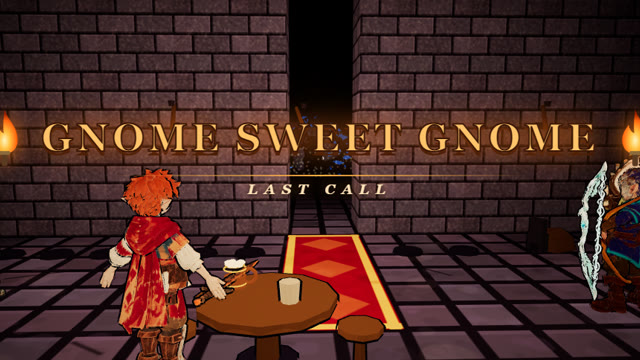
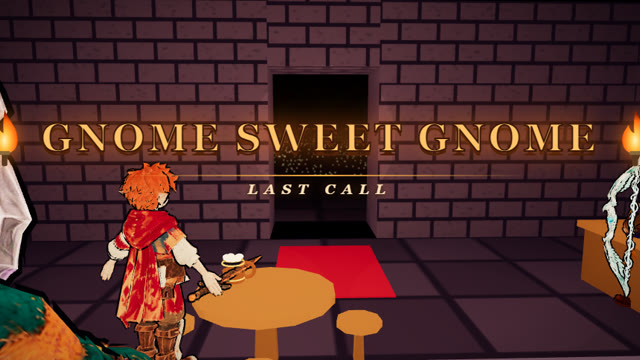
Build 549: the prologue plays on a save's first PLAY (then the game starts); Gnome Sweet Gnome plays on entering the Throne Room, in its own tavern set

diff --git a/parts/staging/96s5-tavernscene.js b/parts/staging/96s5-tavernscene.js
@@ -19,7 +19,39 @@ window.__tavernscene={ info:()=>null };
 if(!window.CINE) return;
 const ID='tavern', DUR=35, PRE='prologue';
 const SH={ mug:0, peek:6.5, arms:11.5, door:19.5, last:26, title:31 };
-const HALL=typeof MAP!=='undefined'&&MAP&&MAP.id==='hall'&&!MAP.noTavern;
+// build 549 (Matt: "gnome sweet gnome upon entering the thrown room"): it plays the first time the THRONE ROOM's build phase begins. The Throne Room has no tavern room (its south wall was
+// closed, MAP.noTavern), so the scene brings its own: a tavern SET built for it out past the map's east edge (buildSet: brick walls, a tiled floor, the bar and its bottles, the hearth, the round
+// table and stools, a locker, a rug, two barrels, the barkeep, and the doorway north onto a dark hall) -- the Gnome Hall's room (65-tavernroom.js) again, every piece the scene's own, gone after.
+const HALL=typeof MAP!=='undefined'&&MAP&&MAP.id==='throne';
+const SX=320, SZ=0;   // where the set stands: well outside any map, beyond the fog
+function canvasTex(w,h,draw){ const c=document.createElement('canvas'); c.width=w; c.height=h; draw(c.getContext('2d'),w,h); const t=new THREE.CanvasTexture(c); t.wrapS=t.wrapT=THREE.RepeatWrapping; t.encoding=THREE.sRGBEncoding; return t; }
+let setFlames=null, setNpc=null;
+function buildSet(group){ const g=new THREE.Group(); g.position.set(SX,0,SZ); group.add(g); const mk=(geo,m,x,y,z)=>{ const o=own(new THREE.Mesh(geo,m)); o.position.set(x,y,z); g.add(o); return o; };
+  const tm=(col,map,em)=>{ const m=new THREE.MeshToonMaterial({ color:C(col), map:map||null }); m.emissive=map?C(0x2a1c30):C(col); m.emissiveIntensity=em===undefined?.06:em; OWN.push(m); return m; };   /* a faint floor of colour so nothing goes pitch black; the firelight does the rest */
+  const brick=canvasTex(256,256,(x,w,h)=>{ x.fillStyle='#4f4258'; x.fillRect(0,0,w,h); x.strokeStyle='#1c1522'; x.lineWidth=6; for(let r=0;r<8;r++){ const y=r*32; x.beginPath(); x.moveTo(0,y); x.lineTo(w,y); x.stroke(); for(let c=0;c<5;c++){ const bx=c*64+(r%2?32:0); x.beginPath(); x.moveTo(bx,y); x.lineTo(bx,y+32); x.stroke(); } } for(let i=0;i<400;i++){ x.fillStyle='rgba(0,0,0,'+(Math.random()*.12)+')'; x.fillRect(Math.random()*w,Math.random()*h,6,4); } });
+  const tiles=canvasTex(128,128,(x,w,h)=>{ x.fillStyle='#352c40'; x.fillRect(0,0,w,h); x.fillStyle='#2a2233'; x.fillRect(0,0,64,64); x.fillRect(64,64,64,64); x.strokeStyle='#17121e'; x.lineWidth=5; x.strokeRect(0,0,64,64); x.strokeRect(64,0,64,64); x.strokeRect(0,64,64,64); x.strokeRect(64,64,64,64); });
+  OWN.push(brick,tiles);
+  const texM=(tex,ru,rv,em)=>{ const t=tex.clone(); t.repeat.set(ru,rv); t.needsUpdate=true; OWN.push(t); return tm(0xffffff,t,em); };
+  const wood=tm(0x6b4a2a), plank=tm(0x8a5e34), dark=tm(0x2b2540), stone=tm(0x4a4262), cream=tm(0xf1e6d0), gold=tm(0xe0b040);
+  const fl=mk(new THREE.PlaneGeometry(16,12),texM(tiles,4,3,.5),0,0,0); fl.rotation.x=-PI/2;
+  const hf=mk(new THREE.PlaneGeometry(12,34),texM(tiles,3,8.5,.2),0,0,-25); hf.rotation.x=-PI/2;
+  const wall=(w,h,d,x,y,z,ru,rv)=>mk(new THREE.BoxGeometry(w,h,d),texM(brick,ru,rv,.5),x,y,z);
+  wall(16,6,.6,0,3,6.3,4,1.5); wall(.6,6,12,8.3,3,0,3,1.5); wall(.6,6,12,-8.3,3,0,3,1.5);   // south, east, west
+  wall(6.6,6,2,-4.7,3,-7,1.7,1.5); wall(6.6,6,2,4.7,3,-7,1.7,1.5); wall(2.8,1.6,2,0,5.2,-7,.7,.4);   // the north wall either side of the door, its lintel
+  wall(.6,5,34,-6,2.5,-25,8.5,1.2); wall(.6,5,34,6,2.5,-25,8.5,1.2);   // the dark hall's sides, past the door
+  // the bar along the east wall: counter, mugs, a shelf of bottles behind
+  { const bx=6.6; mk(new THREE.BoxGeometry(1,1.05,5.6),wood,bx-1.2,.52,0); mk(new THREE.BoxGeometry(1.2,.12,5.8),plank,bx-1.2,1.1,0); for(const mz of [-2,-.6,1.1,2.2]) mk(new THREE.CylinderGeometry(.13,.11,.26,8),cream,bx-1.3,1.29,mz);
+    mk(new THREE.BoxGeometry(.3,.08,5.4),plank,bx+.9,2.3,0); mk(new THREE.BoxGeometry(.3,.08,5.4),plank,bx+.9,3.1,0); const cols=[0x6a9a3a,0xc8262b,0x2fb8e8,0xe0b040,0x9a5ab8,0xf1e6d0]; for(let k=0;k<11;k++) mk(new THREE.CylinderGeometry(.09,.11,.42,7),tm(cols[k%cols.length]),bx+.9,(k%2?2.55:3.35),-2.4+k*.48); }
+  // the hearth on the south wall, logs and a fire
+  { mk(new THREE.BoxGeometry(3,2.6,.9),stone,0,1.3,5.6); mk(new THREE.BoxGeometry(3.3,.25,1.1),tm(0x5a5276),0,2.7,5.6); mk(new THREE.BoxGeometry(1.6,1.4,.6),tm(0x1a1420,null,0),0,.75,5.3); for(const x of [-.5,.4]){ const lg=mk(new THREE.CylinderGeometry(.09,.09,.8,6),wood,x,.2,5.25); lg.rotation.z=PI/2; }
+    const f1=glow(0xff6a14,1.5,.95), f2=glow(0xffd060,.8,.95); f1.position.set(0,.62,4.86); f2.position.set(0,.46,4.8); g.add(f1); g.add(f2); OWN.push(f1.material,f2.material); setFlames=[f1,f2]; }   /* glowing flames, not cones */
+  // the round table and four stools
+  { mk(new THREE.CylinderGeometry(.9,.9,.1,14),plank,-1,.9,0); mk(new THREE.CylinderGeometry(.12,.16,.9,7),wood,-1,.45,0); for(const [x,z] of [[1.2,0],[-1.2,0],[0,1.2],[0,-1.2]]){ mk(new THREE.CylinderGeometry(.3,.3,.08,9),plank,-1+x,.5,z); mk(new THREE.CylinderGeometry(.06,.08,.5,6),wood,-1+x,.25,z); } }
+  // the locker on the west wall, a rug by the door, two barrels
+  { mk(new THREE.BoxGeometry(.7,2.3,1.4),dark,-7.6,1.15,-3); mk(new THREE.BoxGeometry(.74,.08,1.44),gold,-7.6,2.3,-3); mk(new THREE.BoxGeometry(2.2,.03,3.2),tm(0x8a2030),0,.02,-3.6); for(const [x,z] of [[-7.2,4.8],[-6.2,5.2]]) mk(new THREE.CylinderGeometry(.42,.42,1.1,10),wood,x,.55,z); }
+  // the barkeep behind the bar
+  try{ const n=makeHero(); n.g.position.set(SX+7.5,0,SZ+.6); n.g.rotation.y=-PI/2; n.g.scale.setScalar(.95); group.add(n.g); setNpc=n.g; }catch(e){}
+  return g; }
 const cnt={ setups:0, teardowns:0, thumps:0, eyes:0, heroes:0, weapons:0, music:0, quick:0 };
 const ssm=k=>k<=0?0:k>=1?1:k*k*(3-2*k), L3=(a,b,k)=>[a[0]+(b[0]-a[0])*k,a[1]+(b[1]-a[1])*k,a[2]+(b[2]-a[2])*k];
 const TD=(typeof MAP!=='undefined'&&MAP&&MAP.tavern)||{ dx:0, dz:0 }; const at=(x,z)=>[cw(x+TD.dx),cwz(z+TD.dz)];
@@ -53,8 +85,7 @@ let heroes=[], gob=null, mug=null, rings=[], eyePts=null, eyeMat=null, pinkG=nul
 const SRC=[0,1,2,3,4,5].map(()=>({ x:0, y:-80, z:0, on:false, ph:0, k:1 }));
 function setup(ctx){ if(!HALL) return false; const C2=window.__prologue&&window.__prologue.crew; if(!C2) return false; cnt.setups++; prng=9151; tuneSrc=null; heroes=[]; rings=[]; nThump=0; lastThump=-9; thumpT=1.1;
   // the room's spots (65-tavernroom.js)
-  const [tbx,tbz]=at(15,28), [dox,doz]=at(16,24), [hx,hz]=at(16,31), [bx,bz]=at(19,28), [lx,lz]=at(12,26);
-  R={ table:[tbx+1,tbz], door:[dox,doz], hearth:[hx,hz], bar:[bx,bz], locker:[lx,lz] }; const fy=baseFloor(tbx+1,tbz);  R.fy=fy;
+  buildSet(ctx.group); R={ table:[SX-1,SZ], door:[SX,SZ-6.6], hearth:[SX,SZ+5.4], bar:[SX+6.4,SZ], locker:[SX-7.2,SZ-3] }; const fy=0; R.fy=fy;
   // the mug: on the near edge of the table, foam on top, ale under it, rings that spread on each thud
   mug=new THREE.Group(); mug.position.set(R.table[0]-.45,fy+.95,R.table[1]-.35); ctx.group.add(mug);
   const cream=new THREE.MeshToonMaterial({ color:C(0x7a4a26) }), brass=new THREE.MeshToonMaterial({ color:C(0xd8a84a) }), ale=new THREE.MeshBasicMaterial({ color:C(0xd99a30) }), foam=new THREE.MeshToonMaterial({ color:C(0xfff6e2) }); OWN.push(cream,brass,ale,foam);   /* a wooden tankard, brass bands */
@@ -64,20 +95,20 @@ function setup(ctx){ if(!HALL) return false; const C2=window.__prologue&&window.
   for(let i=0;i<3;i++){ const m=new THREE.MeshBasicMaterial({ color:C(0xffe6a8), transparent:true, opacity:0, depthWrite:false }); OWN.push(m); const rg=own(new THREE.Mesh(new THREE.RingGeometry(.8,1,24),m)); rg.rotation.x=-PI/2; rg.position.y=.29; rg.scale.setScalar(.01); mug.add(rg); rings.push({ rg, m, t:9 }); }
   // the four (the prologue's models), set where each one stands in the tavern
   const P=window.__party&&window.__party.model; const spots={ knight:[R.table[0]-1.25,R.table[1]+.2,PI*.5], witch:[R.hearth[0]-1.4,R.hearth[1]-1.6,PI*.9], fighter:[R.locker[0]+1.6,R.locker[1]+1.2,PI*.65], troll:[R.bar[0]-1.15,R.bar[1]-1.6,-PI*.6] };
-  for(const h of C2.CREW){ const m=C2.MODEL[h.id]; if(!m) continue; const sp=spots[h.id]; m.wrap.position.set(sp[0],baseFloor(sp[0],sp[1]),sp[1]); m.wrap.rotation.y=sp[2]; m.wrap.visible=true; ctx.group.add(m.wrap);
+  for(const h of C2.CREW){ const m=C2.MODEL[h.id]; if(!m) continue; const sp=spots[h.id]; m.wrap.position.set(sp[0],0,sp[1]); m.wrap.rotation.y=sp[2]; m.wrap.visible=true; ctx.group.add(m.wrap);
     if(P&&m.actions.idle) P.play(m,'idle',{fade:0,restart:true}); const mt=P&&P.mount(m.root); if(mt&&window.__weapons&&window.__weapons.attach) window.__weapons.attach(mt,h.w,5,null,obj=>{ m.wobj=obj; try{ m.wglow=window.__heldglow&&window.__heldglow.dress?window.__heldglow.dress(obj):null; }catch(e){} cnt.weapons++; });
     heroes.push({ h, m, yaw0:sp[2], ht:2.3 }); }   /* a puppet hero stands about 2.3 here, head to toe (a skinned rig's box reads short) */
   cnt.heroes=heroes.length;
   // the goblin at the door (outside, just round the frame)
   try{ gob=makeMob('goblin'); }catch(e){ gob=null; } if(gob){ gob.g.visible=false; ctx.group.add(gob.g); const id=gob.actions&&(gob.actions.idle||gob.actions.walk); if(id){ id.reset(); id.play(); } }
   // eyes out in the hall: hundreds, in pairs, in the dark north of the door
-  { const N=260, pos=new Float32Array(N*2*3), col=new Float32Array(N*2*3); for(let i=0;i<N;i++){ const z=R.door[1]-3-rand()*26, x=R.door[0]+(rand()-.5)*(2.4+(R.door[1]-z)*.55), y=baseFloor(x,z)+.9+rand()*1.1, sep=.09+rand()*.05, warm=rand()<.75;
+  { const N=260, pos=new Float32Array(N*2*3), col=new Float32Array(N*2*3); for(let i=0;i<N;i++){ const z=R.door[1]-3-rand()*26, x=R.door[0]+(rand()-.5)*Math.min(10.5,2.4+(R.door[1]-z)*.55), y=.9+rand()*1.1, sep=.09+rand()*.05, warm=rand()<.75;
       for(let s=0;s<2;s++){ const j=(i*2+s)*3; pos[j]=x+(s?sep:-sep); pos[j+1]=y; pos[j+2]=z; const c=warm?[1,.82,.25]:[1,.3,.2]; col[j]=c[0]; col[j+1]=c[1]; col[j+2]=c[2]; } }
     const geo=new THREE.BufferGeometry(); geo.setAttribute('position',new THREE.BufferAttribute(pos,3)); geo.setAttribute('color',new THREE.BufferAttribute(col,3));
     eyeMat=new THREE.PointsMaterial({ size:.2, map:GLOWT, vertexColors:true, transparent:true, depthWrite:false, blending:THREE.AdditiveBlending, opacity:0 }); OWN.push(eyeMat); eyePts=own(new THREE.Points(geo,eyeMat)); ctx.group.add(eyePts); cnt.eyes=N*2; }
   pinkG=glow(0xff4fc8,9,0); pinkG.position.set(R.door[0]+4,R.fy+4,R.door[1]-24); ctx.group.add(pinkG); OWN.push(pinkG.material);
-  hearthF=glow(0xff8a2a,3.2,.8); hearthF.position.set(R.hearth[0],R.fy+.9,R.hearth[1]+.25); ctx.group.add(hearthF); OWN.push(hearthF.material);
-  ctx.darken({ hemi:.05, emissive:.08, fog:[16,60], flat:.5, keep:[] }); const F=ctx.fireLights(6); F.I=1.6; F.dist=11; F.col=0xffa860;
+  hearthF=glow(0xff8a2a,3.2,.8); hearthF.position.set(R.hearth[0],R.fy+.9,R.hearth[1]-.75); ctx.group.add(hearthF); OWN.push(hearthF.material);
+  ctx.darken({ hemi:.05, emissive:.08, fog:[16,60], flat:.5, keep:[] }); const F=ctx.fireLights(6); cnt.lights=F.slots.length; F.I=1.9; F.dist=11; F.col=0xffa860;
   return true; }
 function camFor(t){ const T=R.table, D=R.door, fy=R.fy;
   if(t<SH.peek){ const k=ssm(t/SH.peek), m=mug.position; return { p:[m.x-.62+.12*k,m.y+.78-.08*k,m.z-.5+.1*k], l:[m.x,m.y+.24,m.z], fov:42, name:'mug', f:{ x:m.x, y:m.y, z:m.z } }; }
@@ -103,7 +134,7 @@ function step(ctx,t,dt){ const U=ctx.audio, F=ctx.fire, P=window.__party&&window
   // the dark beyond the door
   eyeMat.opacity=t>=SH.door?ssm((t-SH.door-.4)/2.5)*(.9+.1*Math.sin(t*3)):0; ctx.once('pink',SH.door+3.6,()=>{ U.swell(.06); });
   pinkG.material.opacity=t>=SH.door+3.6?.75*Math.exp(-(t-SH.door-3.6)*2.2):0;
-  hearthF.material.opacity=.75+.15*Math.sin(t*9)+.08*Math.sin(t*23);
+  hearthF.material.opacity=.75+.15*Math.sin(t*9)+.08*Math.sin(t*23); if(setFlames){ setFlames[0].scale.set(1.5*(1+.1*Math.sin(t*11)),1.9*(1+.15*Math.sin(t*13)),1); setFlames[1].scale.set(.8,1.1*(1+.12*Math.sin(t*17+1)),1); }
   // light: the hearth, the table, the bar, the door
   if(F){ const pts=[[R.hearth[0],R.fy+1.2,R.hearth[1]-.3],[R.table[0],R.fy+2.4,R.table[1]],[R.bar[0]-.8,R.fy+2.4,R.bar[1]-1],[R.locker[0]+1.8,R.fy+2.4,R.locker[1]+1],[R.door[0],R.fy+2.6,R.door[1]+1.4]];
     pts.forEach((p,i)=>{ const o=SRC[i]; o.x=p[0]; o.y=p[1]; o.z=p[2]; o.on=true; o.ph=i*1.7; o.k=i===0?1.25:.8; }); SRC[5].on=false; F.update(SRC,c0||{ x:R.table[0], y:R.fy+1, z:R.table[1] },dt,t); }
@@ -118,9 +149,9 @@ function teardown(ctx){ cnt.teardowns++; if(tuneSrc&&lastT>=DUR-.8){ tuneOn=true
   for(const H of heroes){ try{ H.m.mixer.stopAllAction(); }catch(e){} if(H.m.wobj&&H.m.wobj.parent) H.m.wobj.parent.remove(H.m.wobj); if(H.m.wrap.parent) H.m.wrap.parent.remove(H.m.wrap); H.m.wrap.rotation.y=0; }
   if(gob) try{ gob.mixer.stopAllAction(); }catch(e){}
   for(const m of OWN.splice(0)) try{ m.dispose(); }catch(e){}
-  heroes=[]; gob=null; mug=null; rings=[]; eyePts=null; c0=null; }
-CINE.register(ID,{ title:'GNOME SWEET GNOME', sub:'LAST CALL', map:'hall', pic:'cine-tavern.jpg', dur:DUR,
-  when:()=>HALL&&!TUTORIAL&&S.phase==='build'&&S.wave===0&&!!(window.CINE.seen&&window.CINE.seen(PRE)),
+  heroes=[]; gob=null; mug=null; rings=[]; eyePts=null; c0=null; setFlames=null; setNpc=null; }
+CINE.register(ID,{ title:'GNOME SWEET GNOME', sub:'LAST CALL', map:'throne', pic:'cine-tavern.jpg', dur:DUR,
+  when:()=>HALL&&!TUTORIAL&&S.phase==='build'&&S.wave===0,
   ready:()=>{ tuneFetch(); const C2=window.__prologue&&window.__prologue.crew; return !!(C2&&C2.get())&&!!MOBGLB.goblin; },
   setup, step, teardown });
 window.__tavernscene={ info:()=>Object.assign({ tuneBytes:!!tuneBytes, tuneReady:!!TUNE, playingOn:tuneOn&&!!tuneSrc, heroesLive:heroes.length, gob:!!gob, words:words?words.textContent:'', wordsOp:words?+words.style.opacity||0:0, eyeOp:eyeMat?+eyeMat.opacity.toFixed(2):0 },cnt), cam:t=>camFor(t), SH, DUR };

diff --git a/parts/staging/96s4-prologue.js b/parts/staging/96s4-prologue.js
@@ -127,6 +127,17 @@ function teardown(ctx){ cnt.teardowns++; musStop(.8); words.style.opacity='0';
   for(const M of mobs){ try{ M.m.mixer.stopAllAction(); }catch(e){} }
   for(const m of OWN.splice(0)) try{ m.dispose(); }catch(e){}
   heroes=[]; mobs=[]; eyes=[]; SHF=null; }
+// build 549 (Matt: "let's have the prologue be at the front of the game"): it plays on a save's FIRST press of PLAY, over the title, and the press goes on as usual when it ends (the tutorial for a
+// new player, the hall for anyone else) -- a click, so its music is allowed to play. Only when the Gnome Hall is the map behind the title; otherwise the first Gnome Hall build phase still brings it.
+// Not on a co-op join page or for the test suites (?prologueplay lets a suite try it).
+const PLAYGATE=!COOPJOIN_P()&&(!(navigator.webdriver||SILENT)||Q.has('prologueplay'));
+function COOPJOIN_P(){ try{ return !!Q.get('coopjoin'); }catch(e){ return false; } }
+let playHeld=false;
+addEventListener('click',e=>{ if(!PLAYGATE||playHeld||!HALL||S.phase!=='start'||!e.target||!e.target.closest||!e.target.closest('#playbtn')) return; if(window.CINE.seen(ID)||window.CINE.active()) return;
+  const st=document.getElementById('start'); if(st&&(st.classList.contains('inLobby')||st.classList.contains('coopPage'))) return;
+  e.stopImmediatePropagation(); e.preventDefault(); try{ const a=A(); if(a&&a.resume) a.resume(); }catch(x){}
+  if(!window.CINE.play(ID)) return; playHeld=true; cnt.fromPlay=(cnt.fromPlay|0)+1;
+  const wait=setInterval(()=>{ if(window.CINE.active()) return; clearInterval(wait); playHeld=false; const b=document.getElementById('playbtn'); if(b&&S.phase==='start') b.click(); },250); },true);
 CINE.register(ID,{ title:'ROOTGATE', sub:'THE ROOT REMEMBERS', map:'hall', pic:'cine-prologue.jpg', dur:DUR,
   when:()=>HALL&&!TUTORIAL&&S.phase==='build'&&S.wave===0,
   ready:()=>{ prefetch(); warmWeapons(); parseHeroes(); return warmed>=CREW.length&& !!(MOBGLB.goblin&&MOBGLB.orc)&&CREW.every(h=>MODEL[h.id])&&!!(window.__crystal&&window.__crystal.state().model); },

diff --git a/parts/game.js b/parts/game.js
@@ -819,7 +819,7 @@ function updateDeathCut(dt){ const c=deathCut; if(!c) return; c.t+=dt; const k=c
 
 // ================= GLB HERO (fetched from assets/, or drop any .glb on the page) =================
 let GLBH=null, useGLB=false, heroYawOff=0, heroLoadError='';
-const BUILD=548;
+const BUILD=549;
 // the load timer (build 142: "I wish you could time how long it's taking to load map 2"). Every map is a fresh page load, so
 // performance.now() counts from the moment the browser started on this URL. page: this script running (the 3 MB page itself
 // down and parsed); first: the start screen's tier (hero, crystal, sword in hand); soon: what building and the first wave need;
